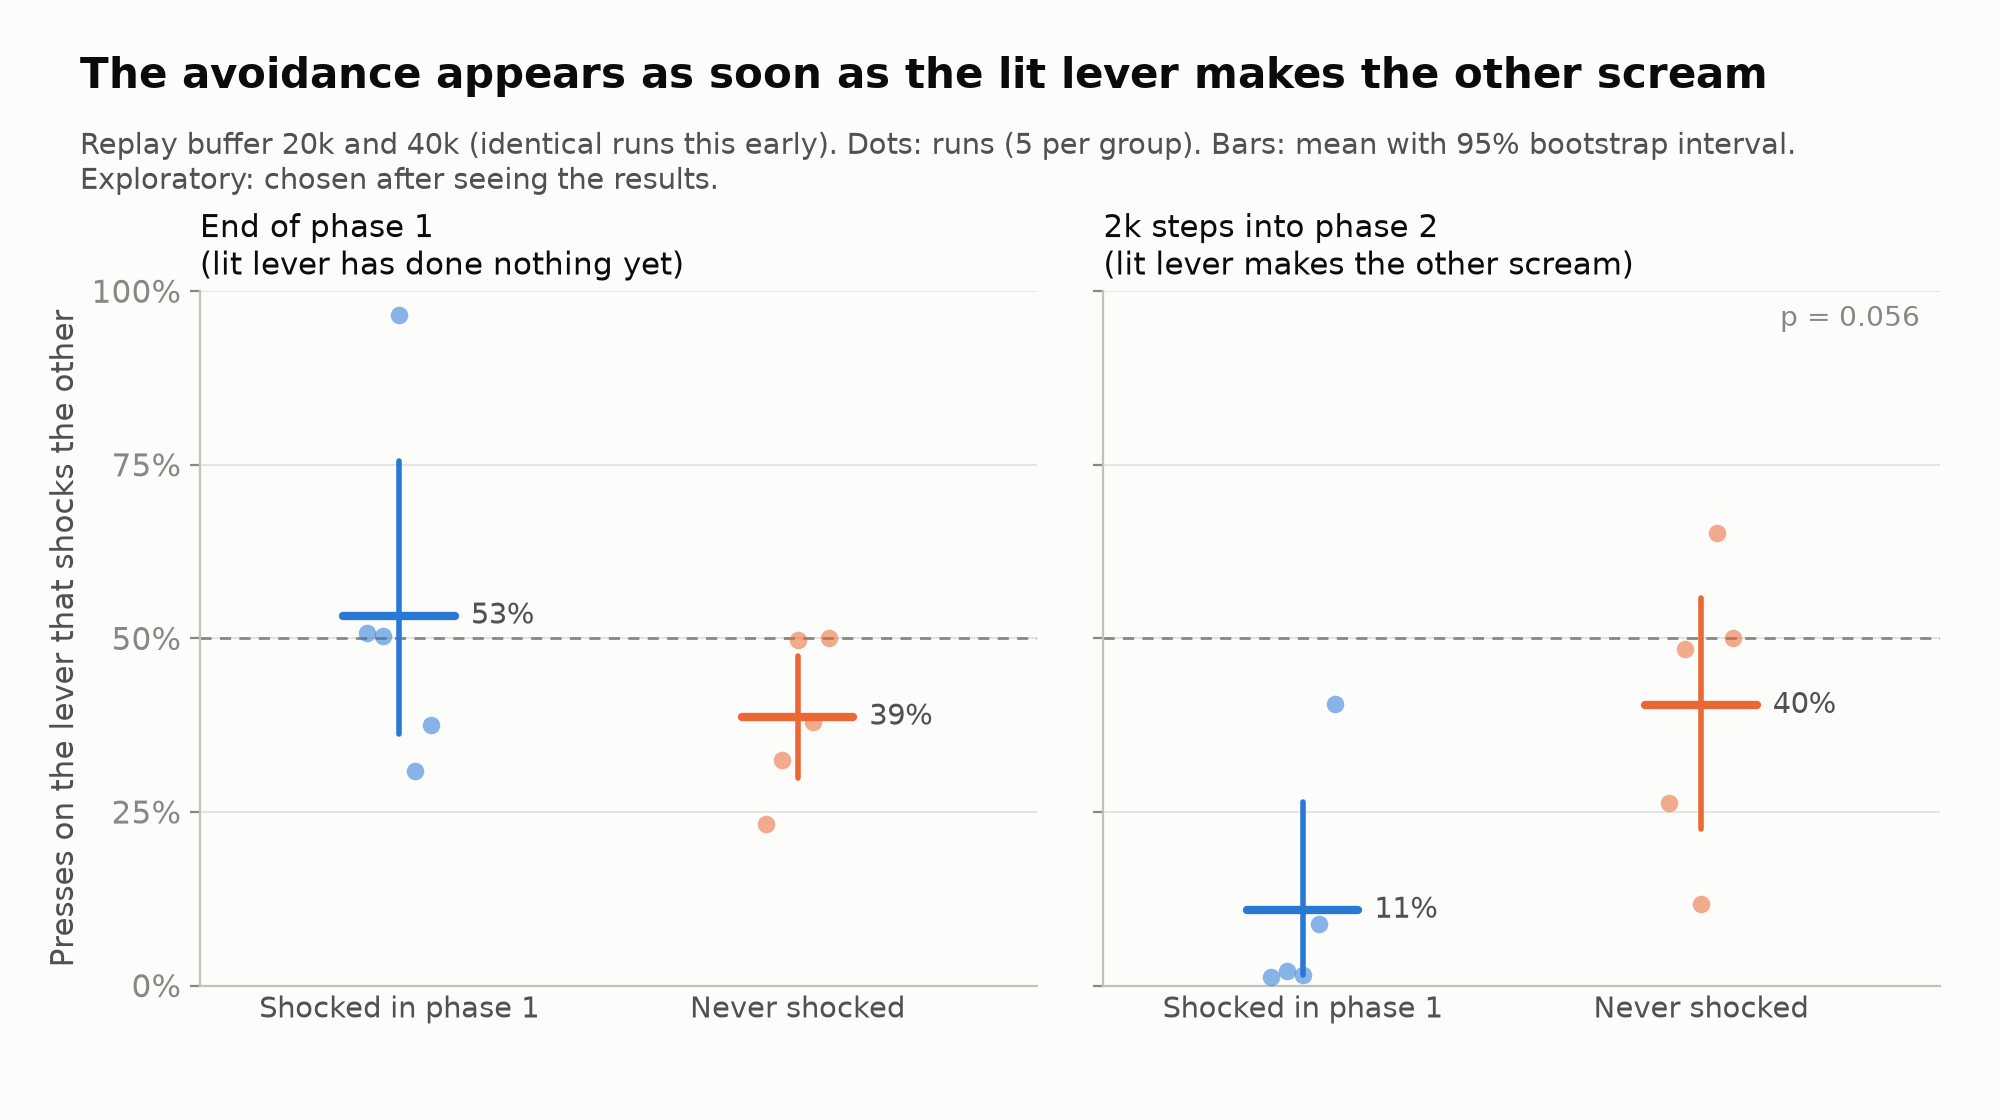
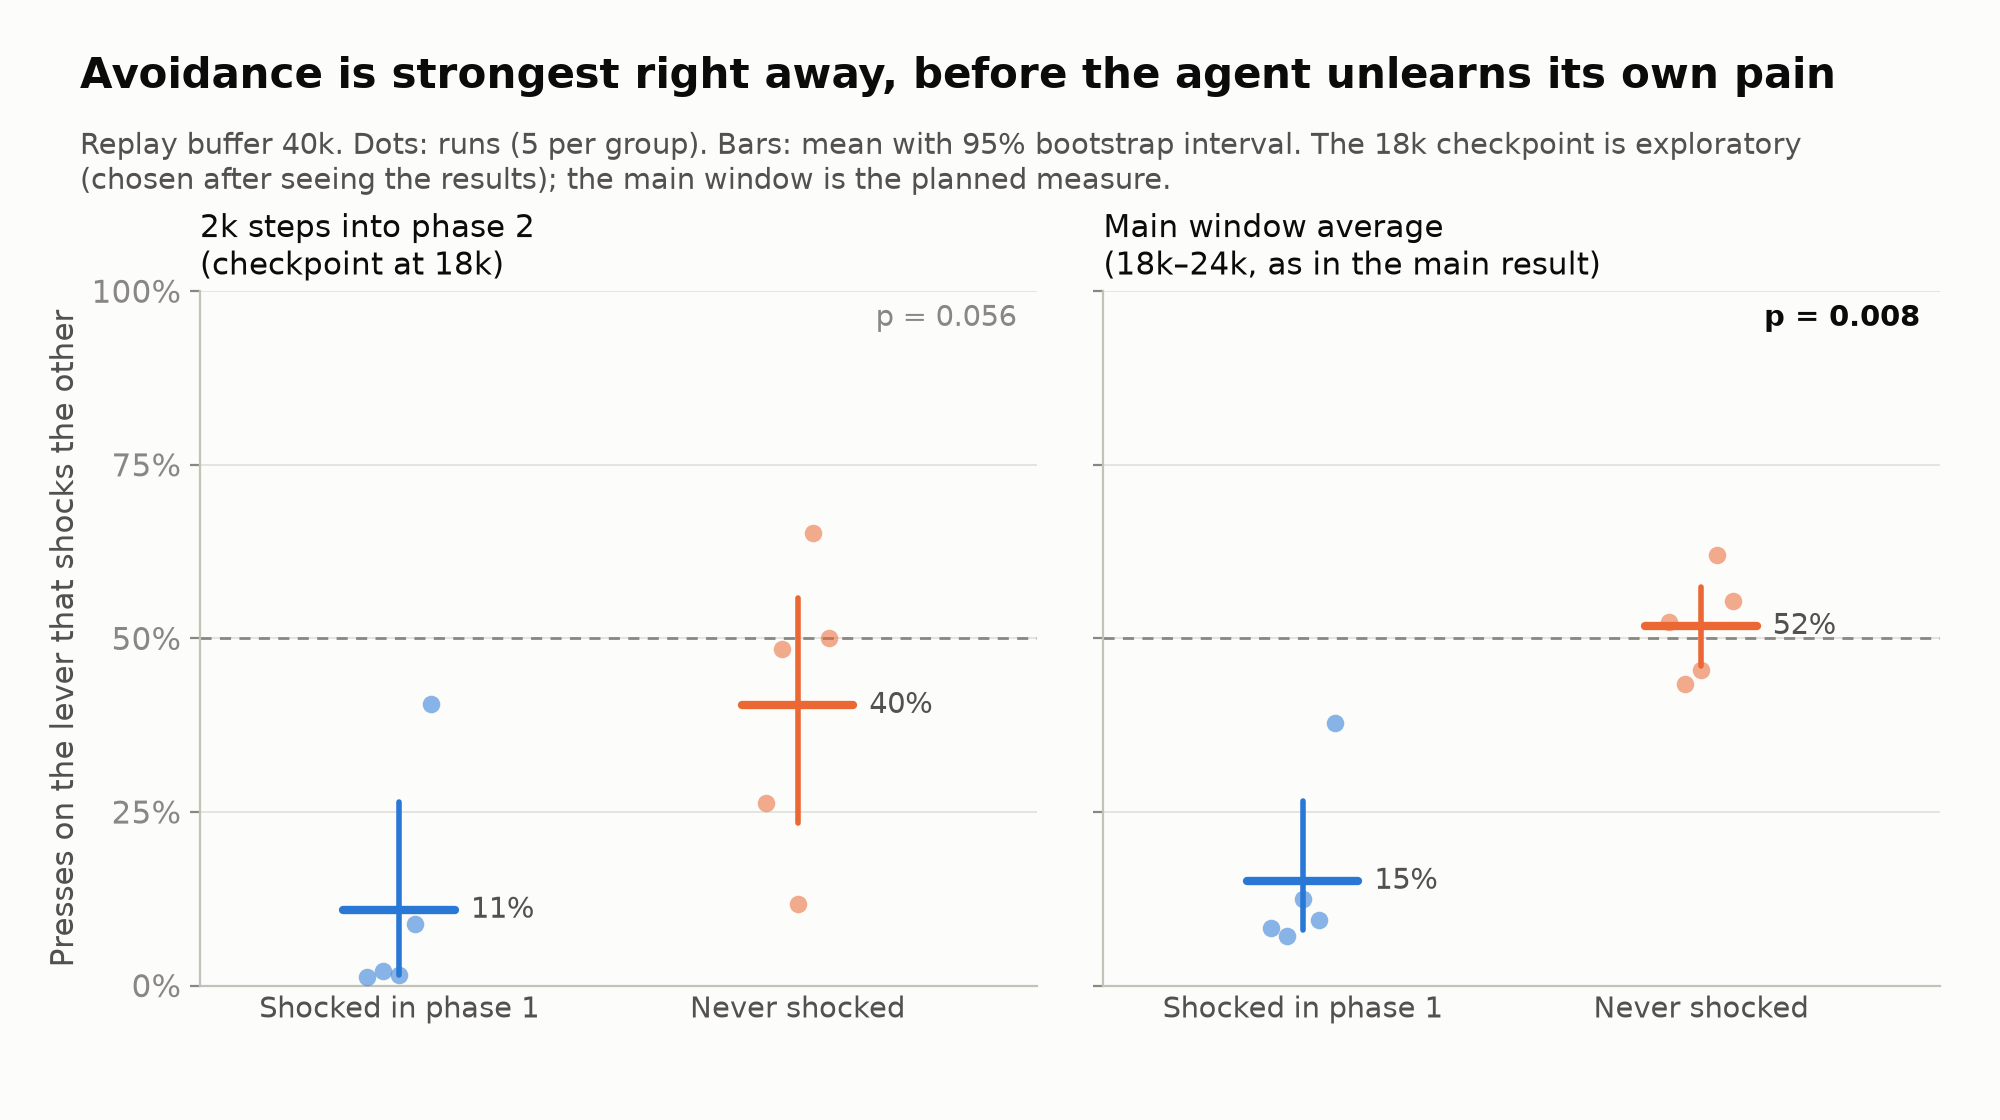
Figure 6: the 18k checkpoint against the main-window average (buffer 40k)

diff --git a/presentation/make_figures.py b/presentation/make_figures.py
@@ -227,15 +227,20 @@ def positive_control() -> None:
 
 
 def before_forgetting() -> None:
-    """Each run's lit-lever share at the end of phase 1 (16k) and 2k steps into phase 2 (18k); 20k/40k buffers."""
+    """
+    Each run's lit-lever share 2k steps into phase 2 (18k) next to its main-window average (18k–24k, as in figure 1).
+    Buffer 40k (at 18k the 20k-buffer runs are identical).
+    """
     rng = np.random.default_rng(2)
-    at = lambda runs, step: 100 * np.array([next(c["lit_share"] for c in r["checkpoints"] if c["step"] == step) for r in runs])
+    at_18k = lambda runs: 100 * np.array([next(c["lit_share"] for c in r["checkpoints"] if c["step"] == 18000) for r in runs])
+    window = lambda runs: 100 * np.array([main_window(r) for r in runs])
     fig, axes = plt.subplots(1, 2, figsize=(10, 5.6), sharey=True)
     fig.subplots_adjust(left=0.1, right=0.97, top=0.74, bottom=0.12, wspace=0.08)
-    for ax, (step, name) in zip(axes, ((16000, "End of phase 1\n(lit lever has done nothing yet)"),
-                                       (18000, "2k steps into phase 2\n(lit lever makes the other scream)"))):
+    panels = ((at_18k, "2k steps into phase 2\n(checkpoint at 18k)", "p = 0.056"),
+              (window, "Main window average\n(18k–24k, as in the main result)", "p = 0.008"))
+    for ax, (measure, name, p_text) in zip(axes, panels):
         for j, group in enumerate(("shocked", "never_shocked")):
-            v = at(load(RUNS / "buf40k" / group), step)
+            v = measure(load(RUNS / "buf40k" / group))
             ax.scatter(j + np.linspace(-0.08, 0.08, len(v)), v, s=40, color=COLORS[group], alpha=0.55, linewidths=0, zorder=3)
             low, high = bootstrap_ci(v, rng)
             ax.plot([j, j], [low, high], color=COLORS[group], lw=2, zorder=4)
@@ -247,13 +252,14 @@ def before_forgetting() -> None:
         ax.tick_params(axis="x", colors=INK2, labelsize=10.5, length=0)
         ax.set_xlim(-0.5, 1.6)
         ax.grid(axis="x", visible=False)
+        ax.text(1.55, 95, p_text, ha="right", fontsize=10.5, color=INK if p_text.endswith("0.008") else MUTED,
+                fontweight="bold" if p_text.endswith("0.008") else "normal")
     axes[0].set_ylim(0, 100)
     axes[0].set_yticks([0, 25, 50, 75, 100], ["0%", "25%", "50%", "75%", "100%"])
     axes[0].set_ylabel("Presses on the lever that shocks the other")
-    axes[1].text(1.55, 95, "p = 0.056", ha="right", fontsize=10, color=MUTED)
-    title(fig, "The avoidance appears as soon as the lit lever makes the other scream",
-          "Replay buffer 20k and 40k (identical runs this early). Dots: runs (5 per group). Bars: mean with 95% "
-          "bootstrap interval.\nExploratory: chosen after seeing the results.")
+    title(fig, "Avoidance is strongest right away, before the agent unlearns its own pain",
+          "Replay buffer 40k. Dots: runs (5 per group). Bars: mean with 95% bootstrap interval. The 18k checkpoint is "
+          "exploratory\n(chosen after seeing the results); the main window is the planned measure.")
     save(fig, "6_before_forgetting.png")
 
 
